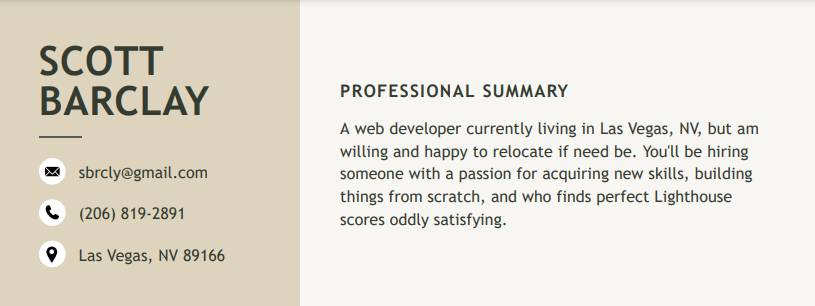
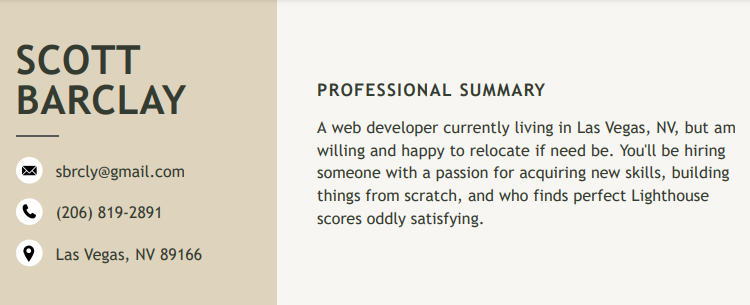
lighthouse improvements

diff --git a/index.html b/index.html
@@ -2,6 +2,7 @@
 <html lang="en">
 <head>
     <meta charset="UTF-8">
+    <meta name="description" content="Front end web developer portfolio. Scott Barclay, Las Vegas, Nevada. Built with HTML CSS and JavaScript.">
     <meta http-equiv="X-UA-Compatible" content="IE=edge">
     <meta name="viewport" content="width=device-width, initial-scale=1.0">
     <title>Scott Barclay</title>
@@ -41,8 +42,8 @@
                         <div class="section-main-info-text pmit-1">
                             <p class="section-description"></p>
                             <div class="section-buttons">
-                                <a class="view-btn" target="_blank">Project</a>
-                                <a class="code-btn" target="_blank">Code</a>
+                                <a class="view-btn" target="_blank" rel="noopener">Project</a>
+                                <a class="code-btn" target="_blank" rel="noopener">Code</a>
                             </div>
                         </div>
                     </div>
@@ -54,8 +55,8 @@
                         <div class="section-main-info-text pmit-2">
                             <p class="section-description"></p>
                             <div class="section-buttons">
-                                <a class="view-btn" target="_blank">Project</a>
-                                <a class="code-btn" target="_blank">Code</a>
+                                <a class="view-btn" target="_blank" rel="noopener">Project</a>
+                                <a class="code-btn" target="_blank" rel="noopener">Code</a>
                             </div>
                         </div>
                     </div>
@@ -80,7 +81,7 @@
                 <div class="container-section cs-2">
                     <h2 class="section-title pt-2">Resume</h2>
                     <div class="section-main-info resume-section">
-                        <a href="/assets/scott-barclay-resume.PDF" id="resume-link" target="_blank">
+                        <a href="/assets/scott-barclay-resume.PDF" id="resume-link" target="_blank" rel="noopener">
                             <img src="/images/resume.PNG" alt="My Resume" id="resume-img">
                         </a>
                     </div>
@@ -90,13 +91,11 @@
     </section>
 
     <section class="Books coming-soon">
-        <h1>Coming soon...</h1>
-        <h3>(within 48 hours, soon)</h3>
+        <h1>Coming soon...<br>(within 48 hours, soon)</h1>
     </section>
 
     <section class="Projects coming-soon">
-        <h1>Coming soon...</h1>
-        <h3>(within 48 hours, soon)</h3>
+        <h1>Coming soon...<br>(within 48 hours, soon)</h1>
     </section>
 
     <section class="Contact">
@@ -108,12 +107,12 @@
                 <input type="text" class="subject-input" placeholder="Subject...">
                 <textarea name="message" id="" cols="30" rows="7" placeholder="Your message..."></textarea>
                 <button type="submit">Send Message</button>
-                <div class="social-btns"></div>
+                <div class="social-media-accounts"></div>
             </form>
 
         </div>
     </section>
-        <h3 class="subtitle"><i class="fas fa-circle"></i> Scott Barclay <i class="fas fa-circle"></i><br><span>Web Developer</span></h3>
+        <h2 class="subtitle"><i class="fas fa-circle"></i> Scott Barclay <i class="fas fa-circle"></i><br><span>Web Developer</span></h2>
     <script src="/js/index.js"></script>
     <script src="/js/app.js"></script>
 </body>

diff --git a/js/app.js b/js/app.js
@@ -120,13 +120,15 @@ class SectionNavigation {
 
 const pageNavigation = new SectionNavigation(siteSections, siteSectionLinks);
 
-const socialBtns = document.querySelector('.social-btns');
+const socialBtns = document.querySelector('.social-media-accounts');
 
 const applySocialBtns = (appendTo, accounts) => {
     for (let account of accounts) {
         const socialBtn = document.createElement('a');
-        socialBtn.classList.add('social-btn');
+        socialBtn.classList.add('social-media');
         socialBtn.classList.add(`${account.name}`);
+        socialBtn.id = account.name;
+        socialBtn.setAttribute('rel', 'noopener');
         socialBtn.setAttribute('href', account.url);
         socialBtn.setAttribute('target', '_blank');
         socialBtn.innerHTML = account.icon;

diff --git a/css/style.css b/css/style.css
@@ -128,7 +128,7 @@ h1 {
 
 .main-content-container {
 	display: flex;
-	min-width: 60vw;
+	min-width: 65vw;
 }
 
 .container-section {
@@ -152,7 +152,7 @@ h2 span {
 	justify-content: space-around;
 	border-top: 2px solid #222;
 	border-bottom: 2px solid #222;
-	height: 250px;
+	height: 275px;
 	width: 100%;
 }
 
@@ -317,14 +317,14 @@ button:hover {
 	transition: all 0.1s;
 }
 
-.social-btns {
+.social-media-accounts {
 	position: absolute;
 	top: 85%;
 	left: 2%;
 	font-size: 2rem;
 }
 
-.social-btn {
+.social-media {
 	margin: 1rem;
 	padding: 0;
 }
@@ -349,6 +349,11 @@ button:hover {
 	opacity: 1;
 	color: #4a4f42;
 }
+
+.icon-container i:hover {
+	transform: scale(1.05);
+}
+
 .skills-description {
 	max-width: 90%;
 	line-height: 1.5;

diff --git a/css/queries.css b/css/queries.css
@@ -1,4 +1,4 @@
-@media (max-width: 1550px) {
+@media (max-width: 1850px) {
 	html {
 		font-size: 13px;
 	}
